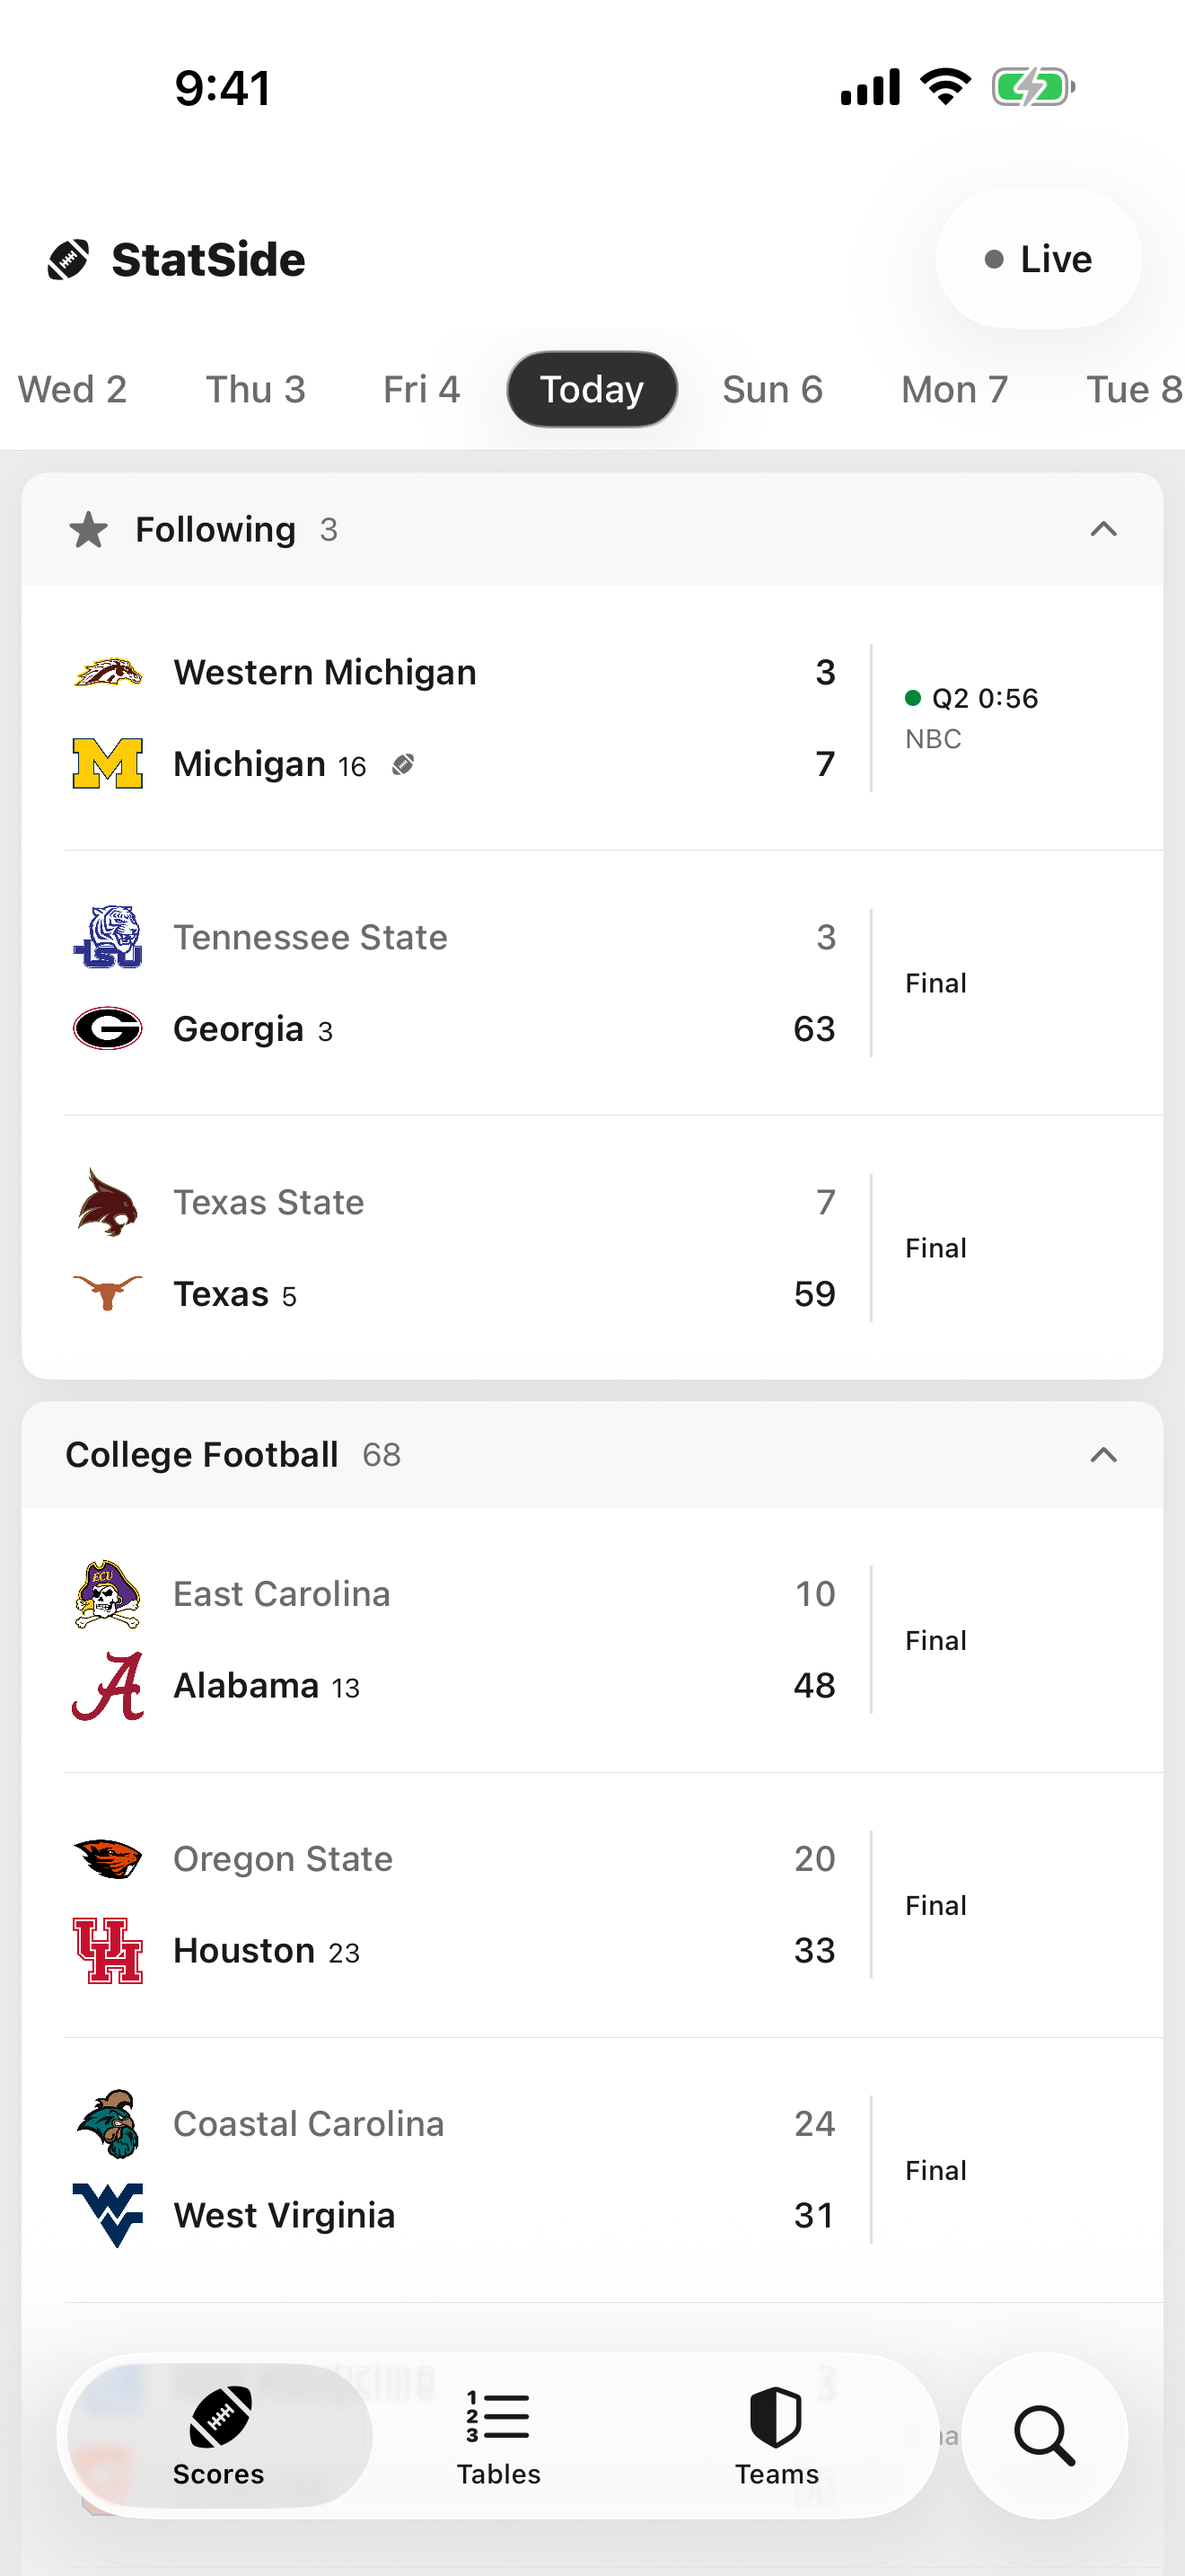
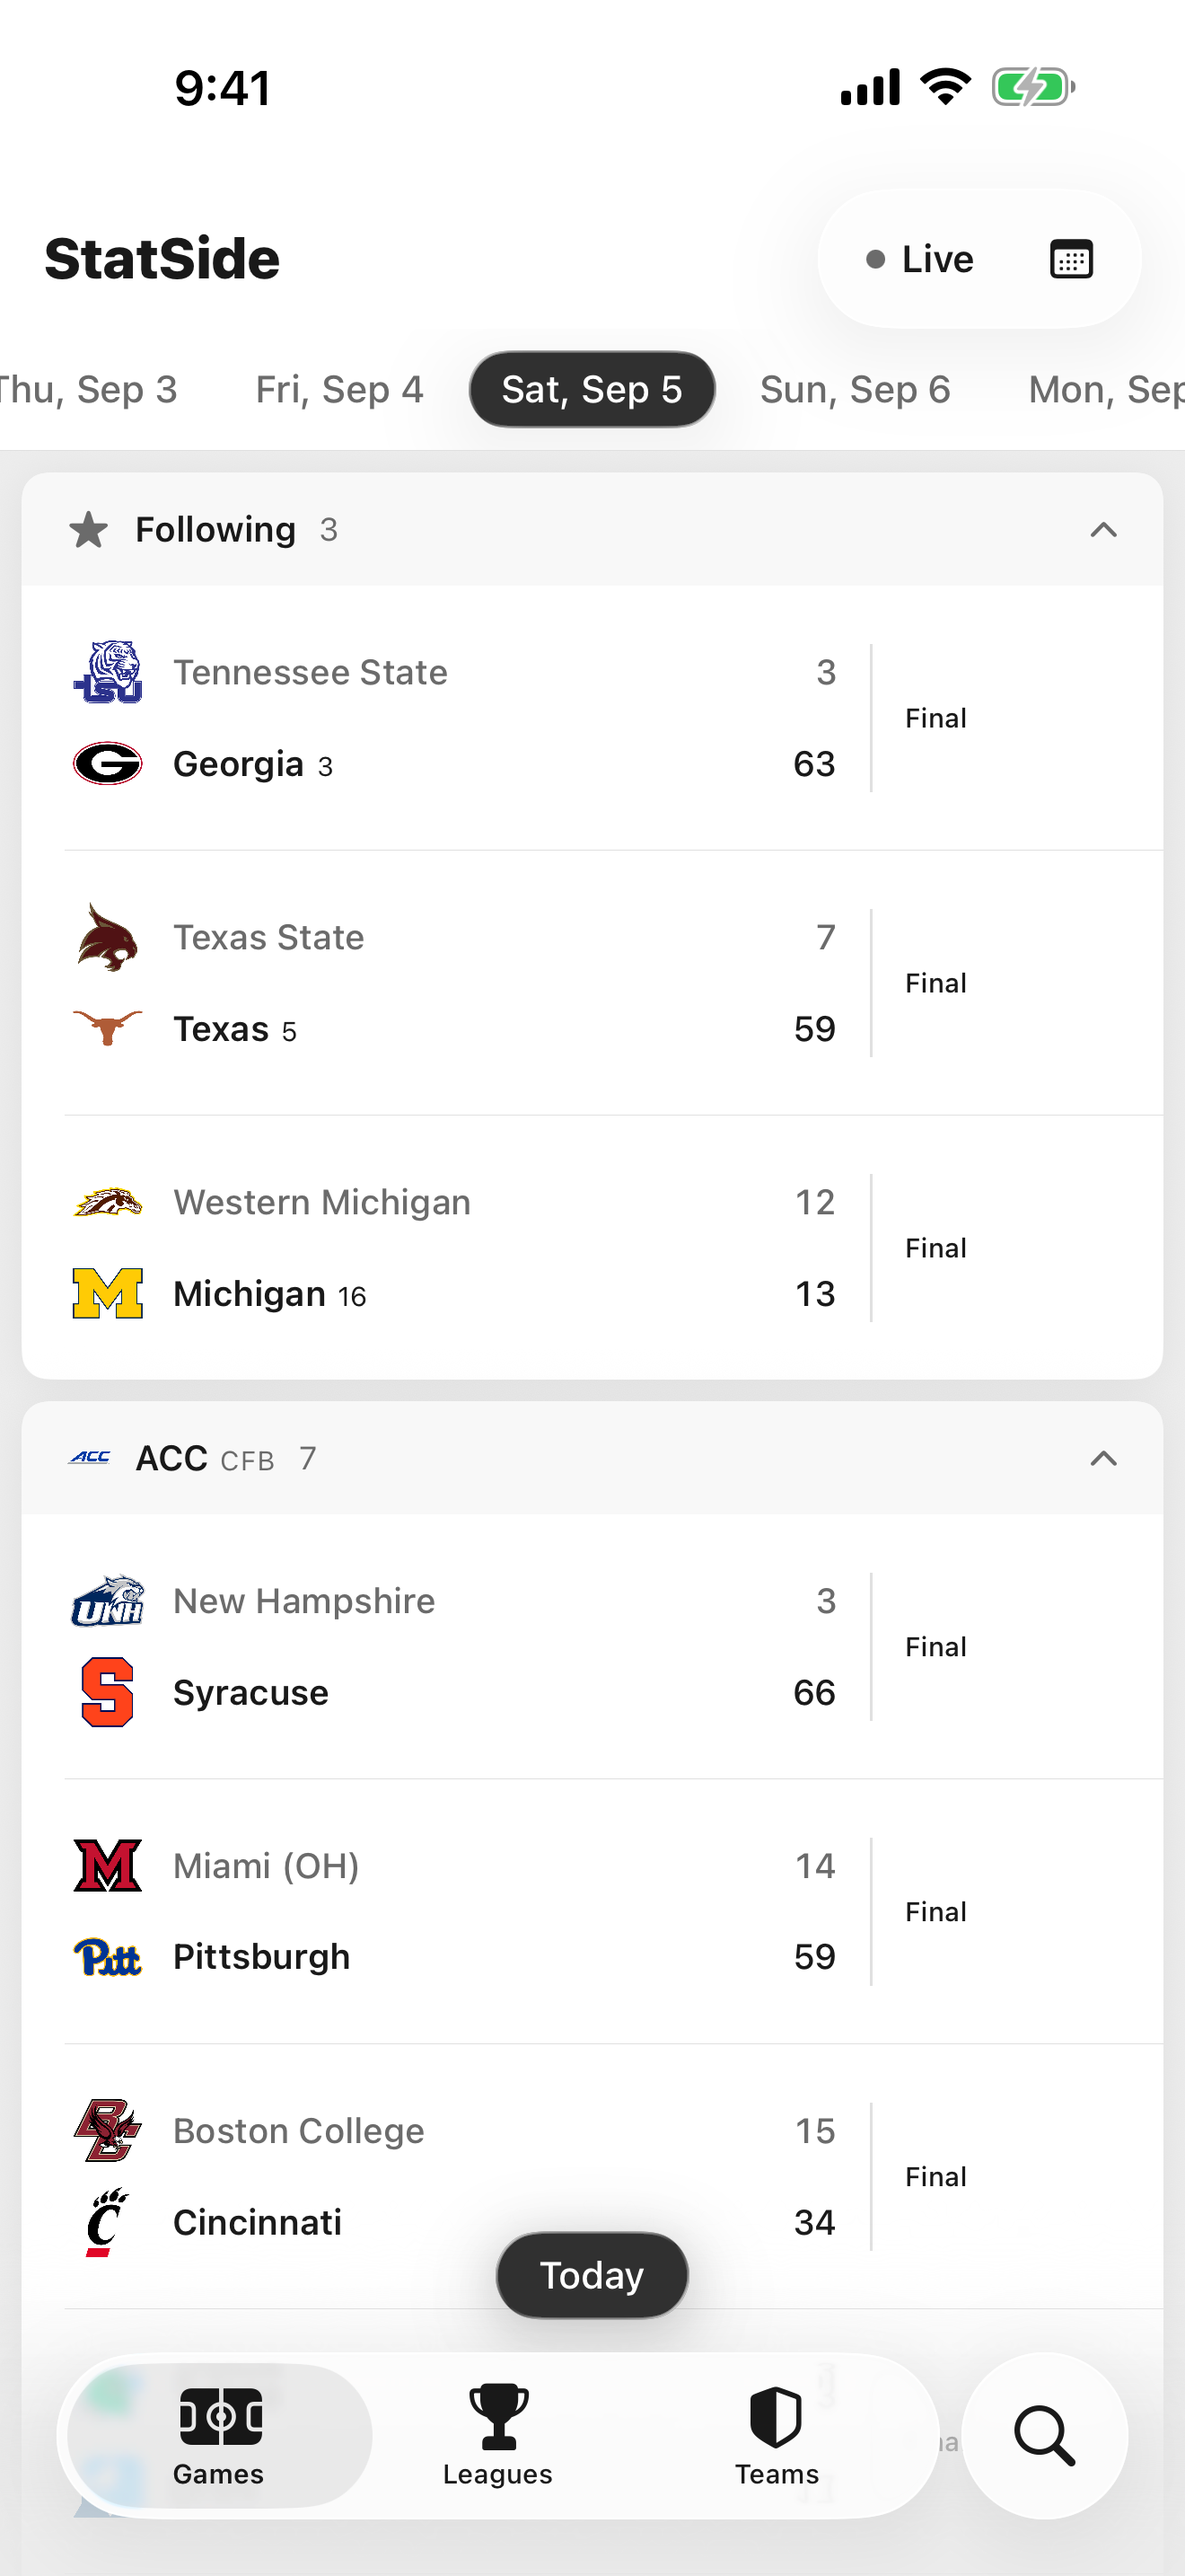
Reshoot the App Store captures against 2.2.0
The copy fix stopped the frames *saying* two leagues; the device shots
underneath were still the 2026-09-05 set, and they showed an app that no
longer exists. The tab bar read "Scores | Tables | Teams" where it now says
Games | Leagues | Teams, the day chips read "Sat 5" before they carried
their month, Today still sat inside the strip instead of floating over the
slate, the Scores page showed one "College Football" accordion rather than
the conference breakdown, and the header wore the retired field glyph.

Seven of the eight masters reshot on an iPhone 17 Pro Max / iOS 26.5 at
1320x2868 — the store's own size, and not a device either installed
simulator could produce, so this creates one. Saturday, September 5 for the
slate frames, which is the most recent day with a full board of finals;
Sunday, September 13 for the NFL frame, still pre-game because the season's
first Sunday hasn't happened. `07-widget` is untouched: it is a manual
springboard capture and no store frame composites it.

Two 2.2.0 surfaces appear in the set for the first time, without anything
being staged for them — the team page's **Roster** tab, and game detail's
**Plays** tab beside Box score. That is the argument for reshooting rather
than waiting: the release's own features could not be in a September 5
capture.

`AppStoreScreenshots` had to be fixed first. `openTeamPage` matched a search
result by exact label, and results have said which league they found since
[…]

diff --git a/sportsUITests/UITestSupport.swift b/sportsUITests/UITestSupport.swift
@@ -155,7 +155,12 @@ extension XCTestCase {
         guard openTab("Search", in: app, until: field) else { return false }
         field.tap()
         field.typeText(name)
-        let result = app.buttons[name].firstMatch
+        // A prefix, not the bare name: a search result says which league it
+        // found ("Georgia Bulldogs, CFB" — 2026-09-07), because one
+        // "Cleveland Browns" tells you nothing about which football you
+        // found. An exact-label query stopped matching the day that landed.
+        let result = app.buttons
+            .matching(NSPredicate(format: "label BEGINSWITH %@", name)).firstMatch
         guard result.waitForExistence(timeout: 10) else { return false }
         result.tap()
         // The Router intent switches to the Teams tab and pushes the page;
